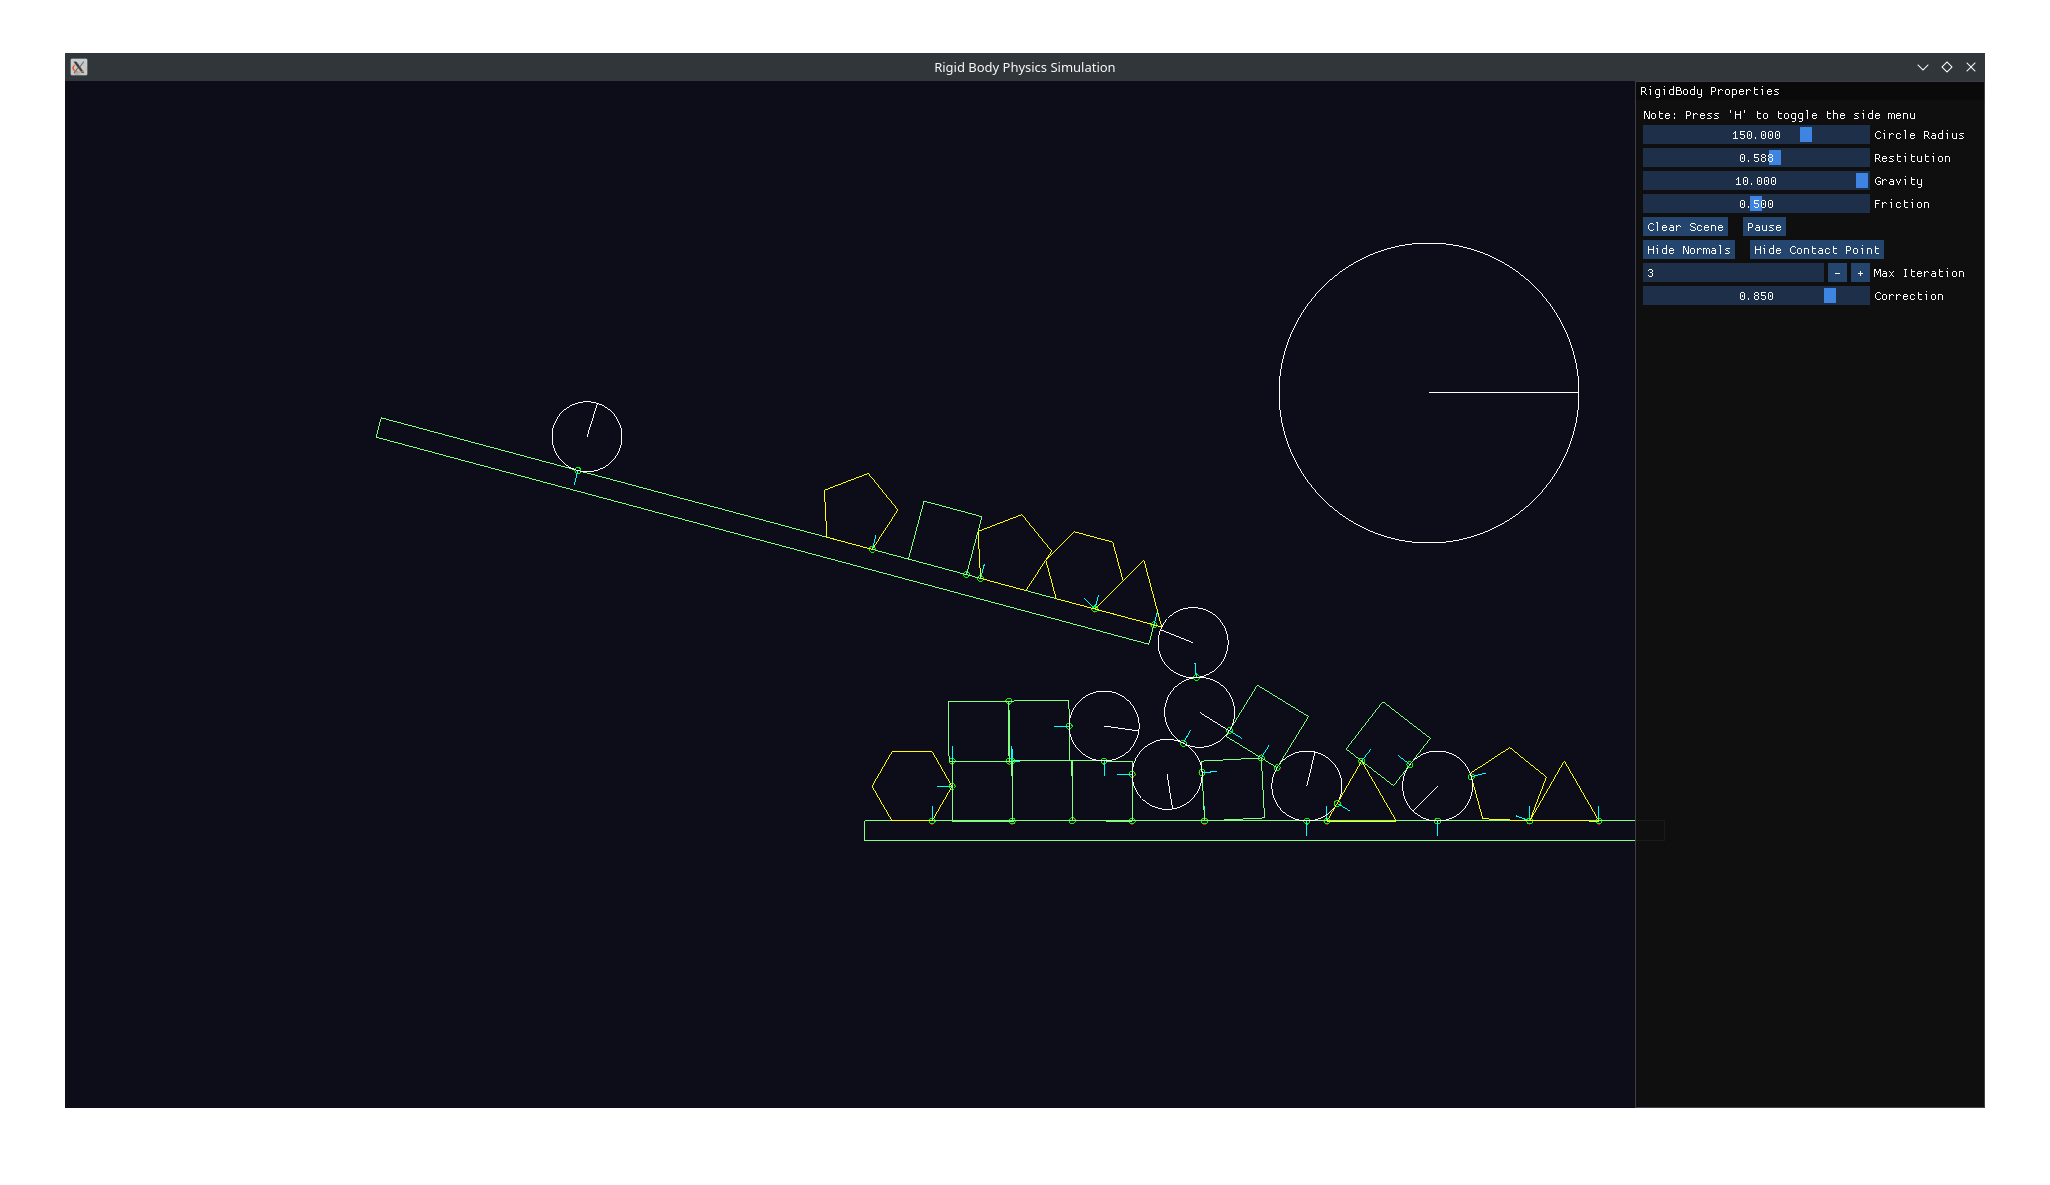
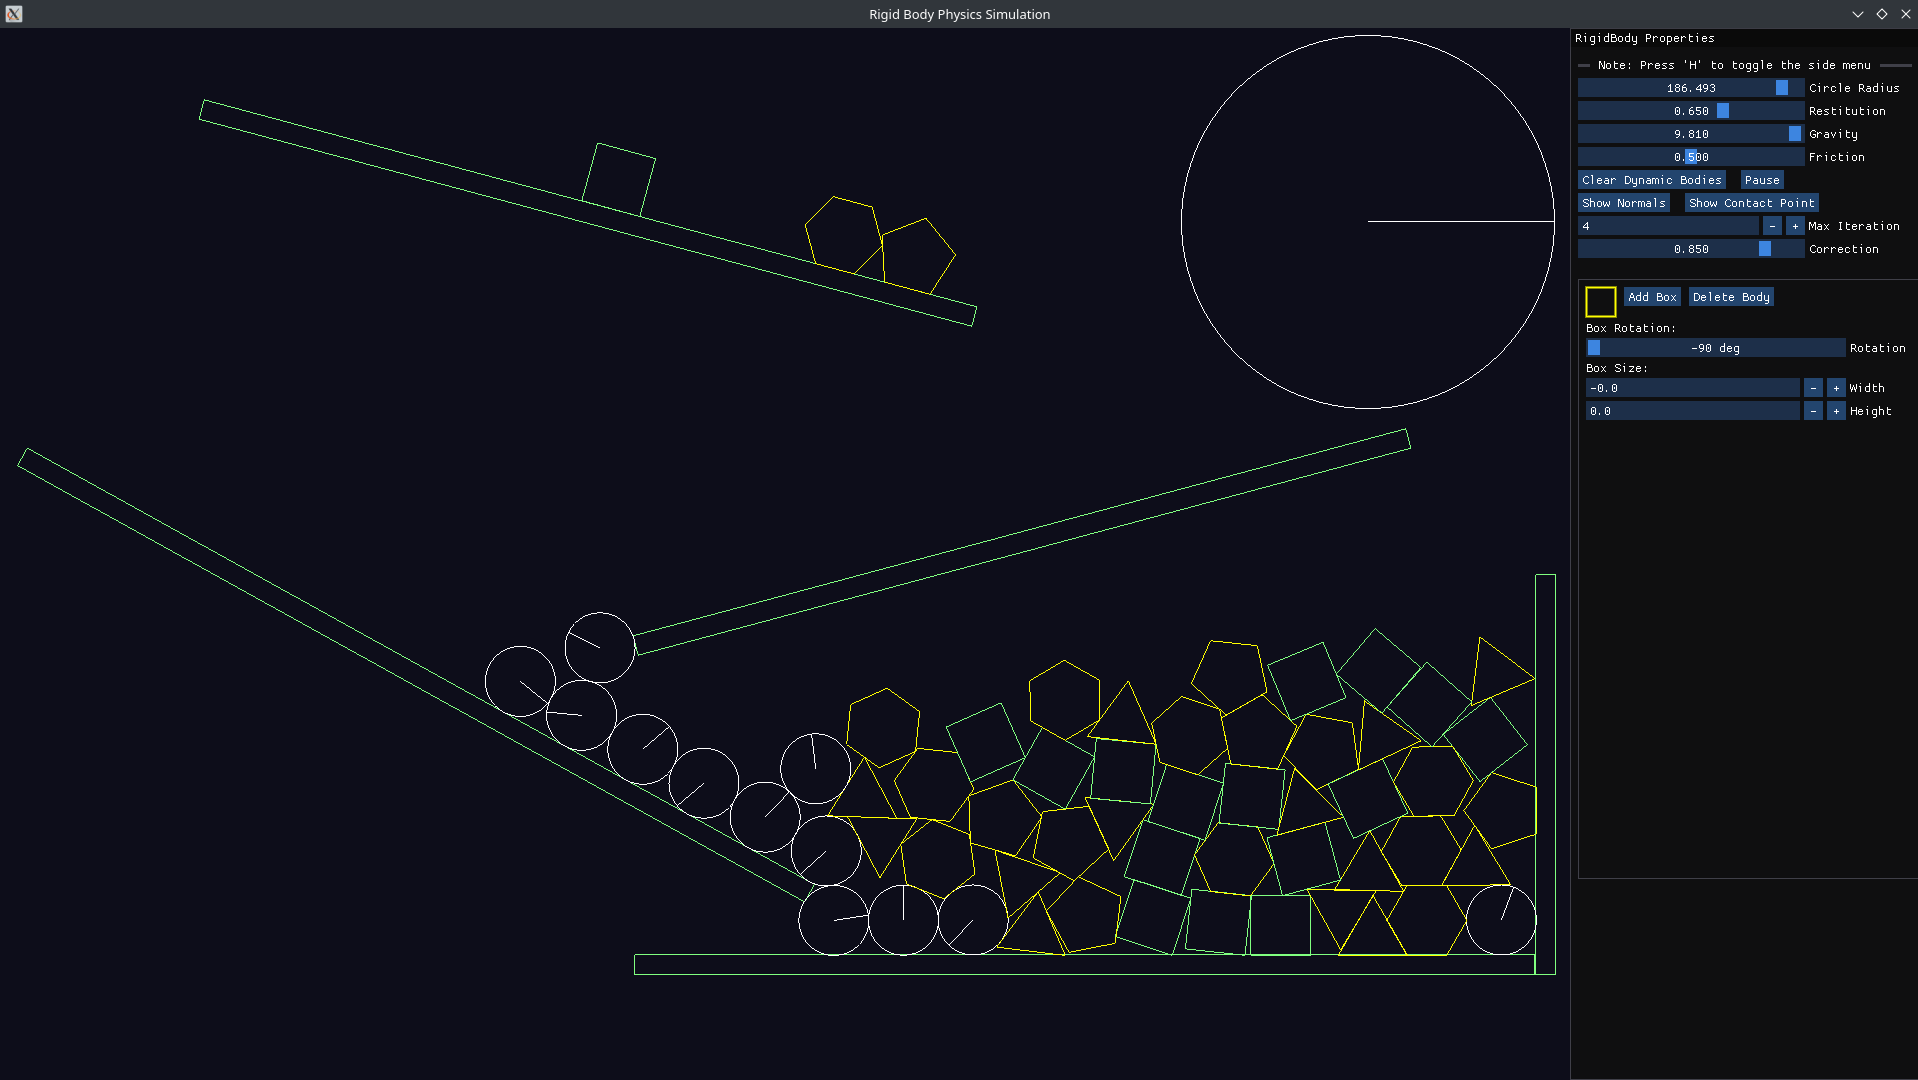
some adjustment to be done

diff --git a/src/Physics/Body.cpp b/src/Physics/Body.cpp
@@ -104,6 +104,16 @@ float Body::GetRadius(){
     return 0.0f; 
 }
 
+void Body::SetWidth(float width){
+    BoxShape* boxShape = static_cast<BoxShape*>(shape); 
+    boxShape->width = width;  
+}
+
+void Body::SetHeight(float height){
+    BoxShape* boxShape = static_cast<BoxShape*>(shape); 
+    boxShape->height = height; 
+}
+
 void Body::SetRadius(float &r){
     CircleShape* circle = static_cast<CircleShape*>(shape);
     if(circle){

diff --git a/src/Application/Application.cpp b/src/Application/Application.cpp
@@ -405,8 +405,8 @@ void Application::RenderGUI(GLFWwindow* window) {
         ImGui::Dummy(ImVec2(30, 30));
         ImGui::SameLine();
         
-        static float addBoxWidth = 60.f; 
-        static float addBoxHeight = 60.f; 
+        static float addBoxWidth = 900.f; 
+        static float addBoxHeight = 20.f; 
         static float rotation = 0.f; 
         ImGui::SameLine(); 
         if (ImGui::Button("Add Box")) {

diff --git a/src/Physics/Body.h b/src/Physics/Body.h
@@ -55,4 +55,6 @@ struct Body {
   void IntegrateVelocities(const float dt);
 
   void SetStatic(bool value);
+  void SetWidth(float width);
+  void SetHeight(float height); 
 };
